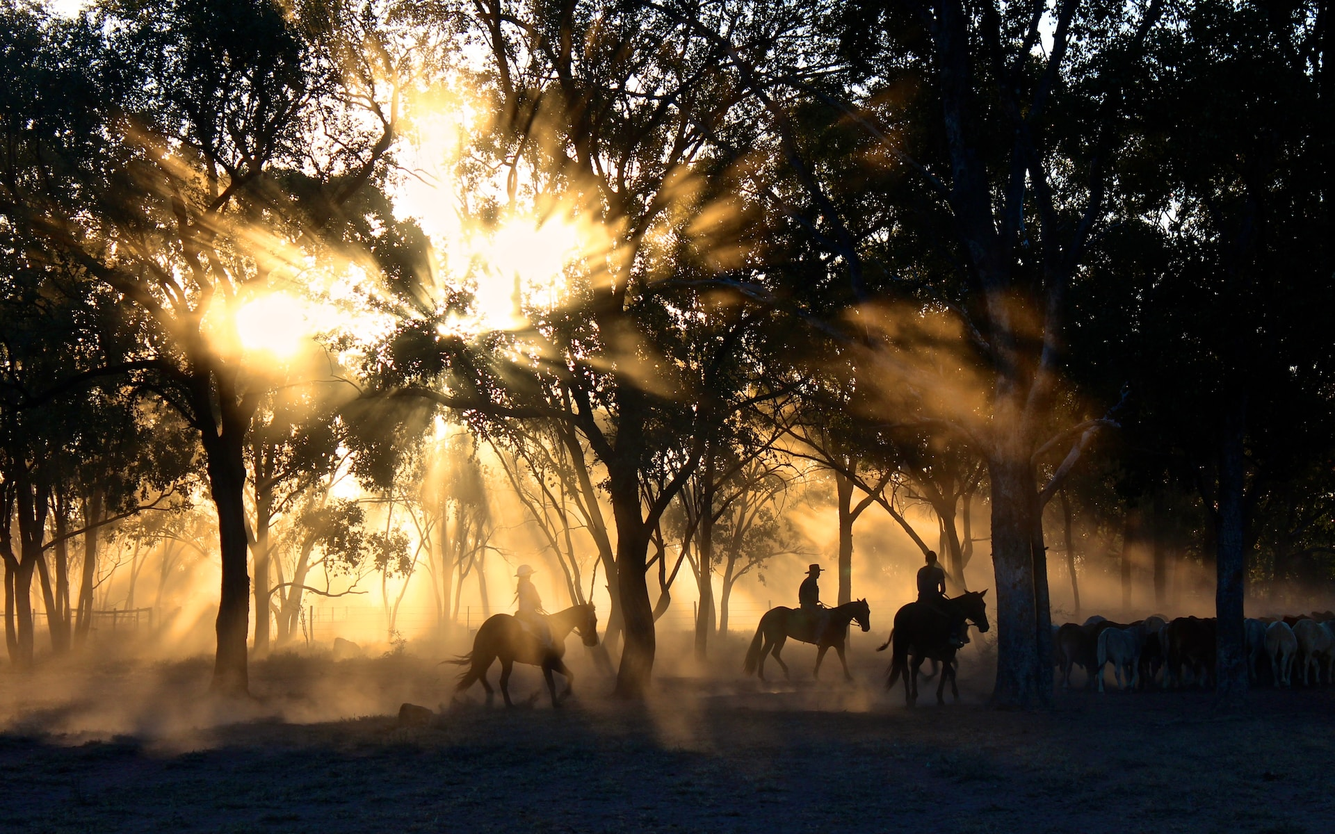
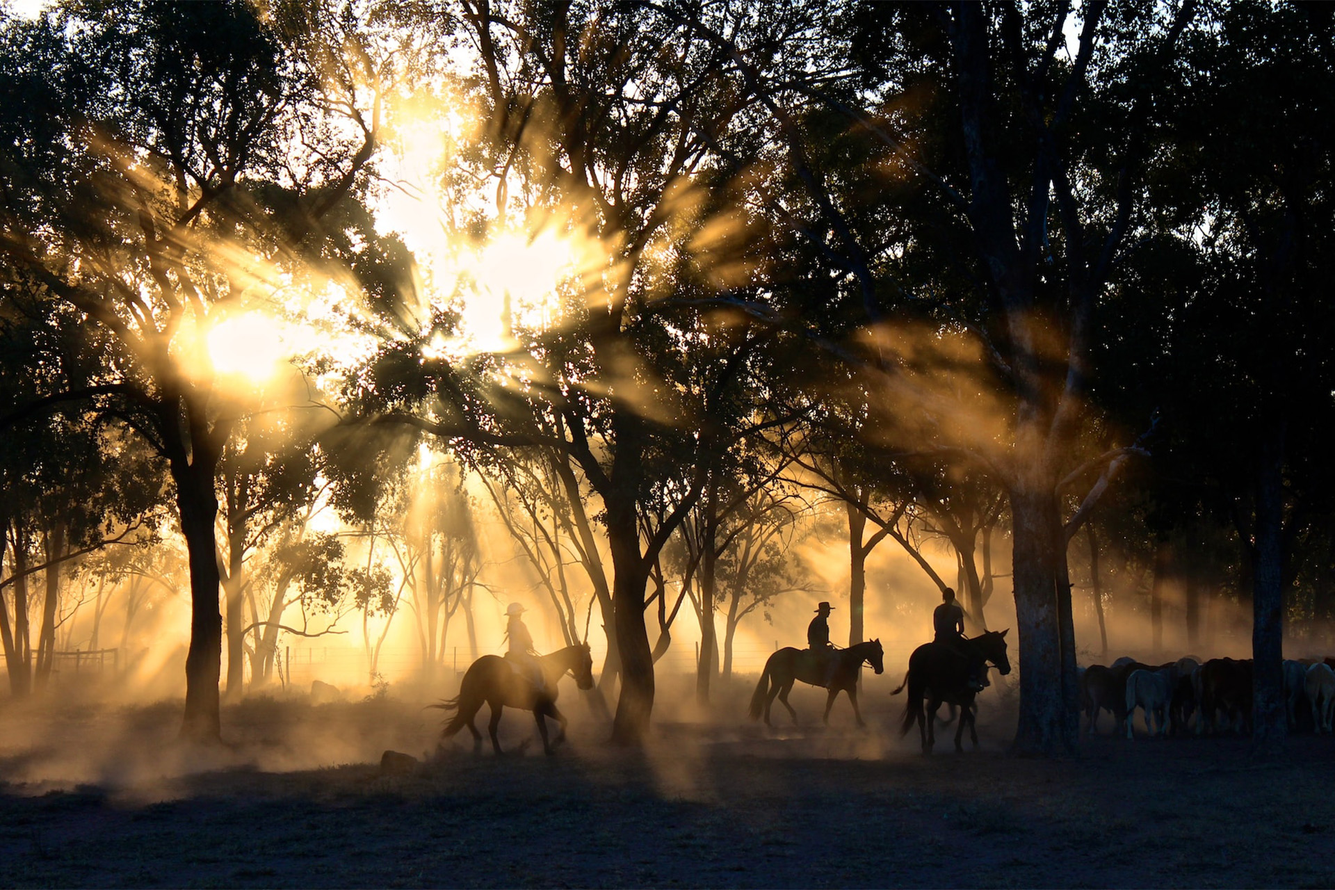
Commit 3

diff --git a/css/styles.css b/css/styles.css
@@ -1,15 +1,85 @@
+html, body, div, span, applet, object, iframe,
+h1, h2, h3, h4, h5, h6, p, blockquote, pre,
+a, abbr, acronym, address, big, cite, code,
+del, dfn, em, img, ins, kbd, q, s, samp,
+small, strike, strong, sub, sup, tt, var,
+b, u, i, center,
+dl, dt, dd, ol, ul, li,
+fieldset, form, label, legend,
+table, caption, tbody, tfoot, thead, tr, th, td,
+article, aside, canvas, details, embed, 
+figure, figcaption, footer, header, hgroup, 
+menu, nav, output, ruby, section, summary,
+time, mark, audio, video {
+	margin: 0;
+	padding: 0;
+	border: 0;
+	font-size: 100%;
+	font: inherit;
+	vertical-align: baseline;
+}
+/* HTML5 display-role reset for older browsers */
+article, aside, details, figcaption, figure, 
+footer, header, hgroup, menu, nav, section {
+	display: block;
+}
+body {
+	line-height: 1;
+}
+ol, ul {
+	list-style: none;
+}
+blockquote, q {
+	quotes: none;
+}
+blockquote:before, blockquote:after,
+q:before, q:after {
+	content: '';
+	content: none;
+}
+table {
+	border-collapse: collapse;
+	border-spacing: 0;
+}
+
+
+
+
+
+/* PROYECT BREAK CSS */
+
 main {
-    color: #fff;
     text-align: center;
+    display: flex;
+    align-items: center;
+    justify-content: center;
+    height: 100vh;
+}
+
+main a {
+    color: yellow;
+    text-decoration: none;
+    font-weight: bold;
+    cursor: pointer;
+    -webkit-text-stroke-color: black;
+    -webkit-text-stroke-width: 5px;
+    font-size: 100px;
 }
 
 #fondo {
+    position: absolute;
     background-repeat: no-repeat;
     background-attachment: fixed;
     background-position: center;
     margin: 0;
     padding: 0;
     width: 100%;
+    height: 100vh;
 
-    transition: all .3s ease;
+    z-index: -10;
+
+    filter: sepia(1);
+
+    /*Quiero pegame un tiru, yera namás q'esto, mil gracies y aleluya*/
+    transition: all .3s ease-in-out;
 }

diff --git a/js/script.js b/js/script.js
@@ -5,7 +5,7 @@ console.log('Hola mundu')
 //de un número, que coincidirá con el índice de una de las fotos.
 //Luego se imprimirá nel fondu y con el set interval podré establecer la duración
 
-const body = document.getElementById('body');
+const fondo = document.getElementById('fondo');
 
 const fotos = [
     './img/bosque.jpg',
@@ -18,20 +18,30 @@ const fotos = [
 let fotoAnterior = '';
 
 function imprimirFondo() {
+
+    //Nombramos una variable que guarde el índce de les semeyes
     let fotoAleatoria;
+    
+    //El do while sirve para que la foto no se repita, porque si se diese el caso,
+    //el bucle volvería a general un índice hasta que este fuera diferente.
     do {
+
+        //Generamos la aleatoriedad en base a los índices del array
         fotoAleatoria = Math.floor(Math.random() * fotos.length);
     } while (fotoAnterior === fotos[fotoAleatoria]);
-
+    
+    //Guardamos el índice en la valiable
     fotoAnterior = fotos[fotoAleatoria];
-    body.style.backgroundImage = 'url(' + fotoAnterior + ')';
-    console.log(fotoAleatoria);
+    fondo.style.backgroundImage = 'url(' + fotoAnterior + ')';
+
+    console.log(fotoAleatoria); //--> Quitalo
 }
 
-setInterval(imprimirFondo, 5000);
+setInterval(imprimirFondo, 20000);
 
 imprimirFondo();
 
 //PROBLEMES
 
-//A vegaes ponse munches veces la mesma foto, igual fago un bucle 
+//  PONER UN EFECTU DE DISOLUCIÓN o asemeyao
+//  (RESUELTO)  A vegaes ponse munches veces la mesma foto, igual fago un bucle
